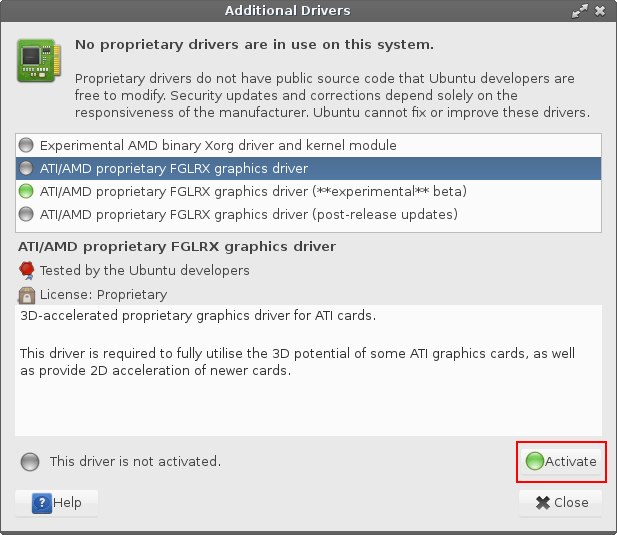
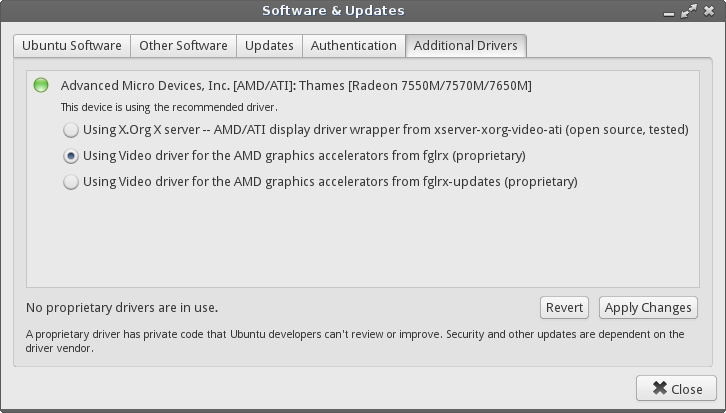
litemanual

Changed region(s): [[0.0, 0.0, 1.0, 1.0]]

diff --git a/usr/share/doc/litemanual/hardware.html b/usr/share/doc/litemanual/hardware.html
@@ -72,49 +72,45 @@
 				<p>When it has finished scanning, you will see a dialog box 
 				similar to the one below.</p>
 				<p><img border="0" src="img/hardware/ati5.png"></p>
-				<p>For ATI, we would select: <b>ATI/AMD proprietary FGLRX 
-				graphics driver </b>(second in the list in the above picture)<br>
-				If you plan to play Steam games in the future, select: <b>
-				ATI/AMD proprietary FGLRX graphics driver (**experimental** 
-				beta)</b> Now click on <b>Activate</b>.<br />
-				<br> You will see this dialog as it downloads and installs:<br></p>
-				<p><strong>pic to go here</strong></p>
+				<p>For ATI, we would select: <b>Using Video Driver for the AMD 
+				graphics accelerators from fglrx (proprietary) </b>(second in the list in the above picture)<br>
+				Now click on <b>Apply Changes</b>. Enter your password when 
+				prompted.</p>
+				<p><img src="img/hardware/driverpassword.png" /><br />
+				<br> You will then see this dialog as it downloads and installs 
+				the driver:<br></p>
+				<p><img src="img/hardware/ati5a.png" />&nbsp;</p>
 
-				<p>When the driver has finished, click on <b>Close</b>.<br>
-				Now open up a terminal and type:<br>
-				<br>
-				<b>sudo aticonfig --initial -f<br>
-				<br>
-				</b>enter your password, when it has finished, restart your 
-				computer.</p>
+				<p>When the driver has finished, click on <strong>Close. Now 
+				restart your computer.</strong></p>
 				<p>Now we need to make sure that our new <b>Menu</b> entries 
 				launch correctly. Go to <b>Menu, Settings, Main Menu</b>.</p>
-				<p><img border="0" src="img/hardware/ati6.png"></p>
+				<p><img border="0" src="img/hardware/ati6.jpg"></p>
 				<p>A new window will pop up, select <b>Settings</b> on the left 
 				then the first AMD menu entry on the right and click on <b>
 				Properties</b>.<br>
 				This will bring up a new window, edit each field so that it 
 				looks the same as in the picture below. When you have finished 
-				editing, click on <b>Save </b>on the<b> Edit launcher </b>
+				editing, click on <b>OK </b>on the<b> Launcher Properties </b>
 				window.</p>
-				<p><img border="0" src="img/hardware/ati7.png"></p>
+				<p><img border="0" src="img/hardware/ati7.jpg"></p>
 				<p>Now click on the second AMD menu entry on the right and click 
 				on <b>Properties</b>.<br>
 				This will bring up a new window, edit each field so that it 
 				looks the same as in the picture below. When you have finished 
-				editing, click on <b>Save </b>on the<b> Edit launcher </b>
+				editing, click on <b>OK </b>on the<b> Launcher Properties </b>
 				window. Now click on <b>Close</b> on the <b>Main Menu</b> 
 				window.</p>
-				<p><img border="0" src="img/hardware/ati8.png"></p>
+				<p><img border="0" src="img/hardware/ati8.jpg"></p>
 				<p>The <b>AMD Catalyst</b> menu item will let you configure your 
 				graphics, with limited access in the <b>Catalyst Control Center</b>.</p>
-				<p><img border="0" src="img/hardware/ati9.png"></p>
-				<p>The <b>AMD Catalyst Admin</b> will give you full access to 
+				<p><img border="0" src="img/hardware/ati9.jpg"></p>
+				<p>The <b>AMD Catalyst Admin</b> window will give you full access to 
 				all the settings in the <b>Catalyst Control Center</b> including 
 				options like&nbsp; <b>Switchable Graphics</b> if you have it. 
 				You will need to enter your password to access this control 
 				panel.</p>
-				<p><img border="0" src="img/hardware/ati10.png"></p>
+				<p><img border="0" src="img/hardware/ati10.jpg"></p>
 				<p>
 <a href="#top">Top of page</a><br>
 				</p><hr>
@@ -131,7 +127,7 @@
 				the driver install.</b></p>
 				<p>The next step is to go to <b>Menu, Settings, Install Drivers</b>.</p>
 				<p>
-				<img border="0" src="img/hardware/install_drivers.jpg" height="463" width="382"></p>
+				<img border="0" src="img/hardware/install_drivers.jpg"></p>
 				<p>The program will then scan your computer for any drivers that 
 				you may need, this may take some time.</p>
 				<p><img src="img/hardware/nvidiascan.png" /></p>
@@ -140,14 +136,14 @@
 				<p><img border="0" src="img/hardware/nvidia2.png"></p>
 				<p>Generally you will want to select the current version, the 
 				tested driver. In the above example we selected the <strong>
-				NVIDIA binary driver (proprietary, tested).</strong></p>
+				Using NVIDIA binary driver (proprietary, tested).</strong></p>
 				<p><strong>NOTE:</strong> If you plan to play graphic intensive 
 				games or you have a lot of Steam games, you need to select the
 				<strong>proprietary, tested</strong> driver.<br>
 				</p>
 				<p>Now click on <b>Apply Changes</b>. You will be prompted for 
 				your password:</p>
-				<p><img src="img/hardware/nvidiapassword.png" /><br>
+				<p><img src="img/hardware/driverpassword.png" /><br>
 				<br> You will see the following dialog as it downloads and installs:<br></p>
 				<p><img border="0" src="img/hardware/nvidia4.png"></p>
 				<p>When the driver has finished, restart your 

diff --git a/usr/share/doc/litemanual/index.html b/usr/share/doc/litemanual/index.html
@@ -32,10 +32,10 @@
 						<td valign="top">&nbsp;</td>
 						<td style="text-align: right" valign="top">
 						<p style="text-align: right"><b>Version:</b> 2.0 | <b>Date:</b> 
-						30th May, 2014 | <b>Authors:</b> Bill Hahnen, Adam 
+						3rd June, 2014 | <b>Authors:</b> Bill Hahnen, Adam 
 						Grubbs, John Jenkins, Jerry Bezencon<br />
 						<strong>New Additions:</strong> Updated 
-						<a href="hardware.html#printer">Printer</a> section.</td>
+						<a href="hardware.html#ati">ATI driver</a> section.</td>
 					</tr>
 				</table>
 				<p>Thank you for choosing the Linux Lite Operating System.</p>
